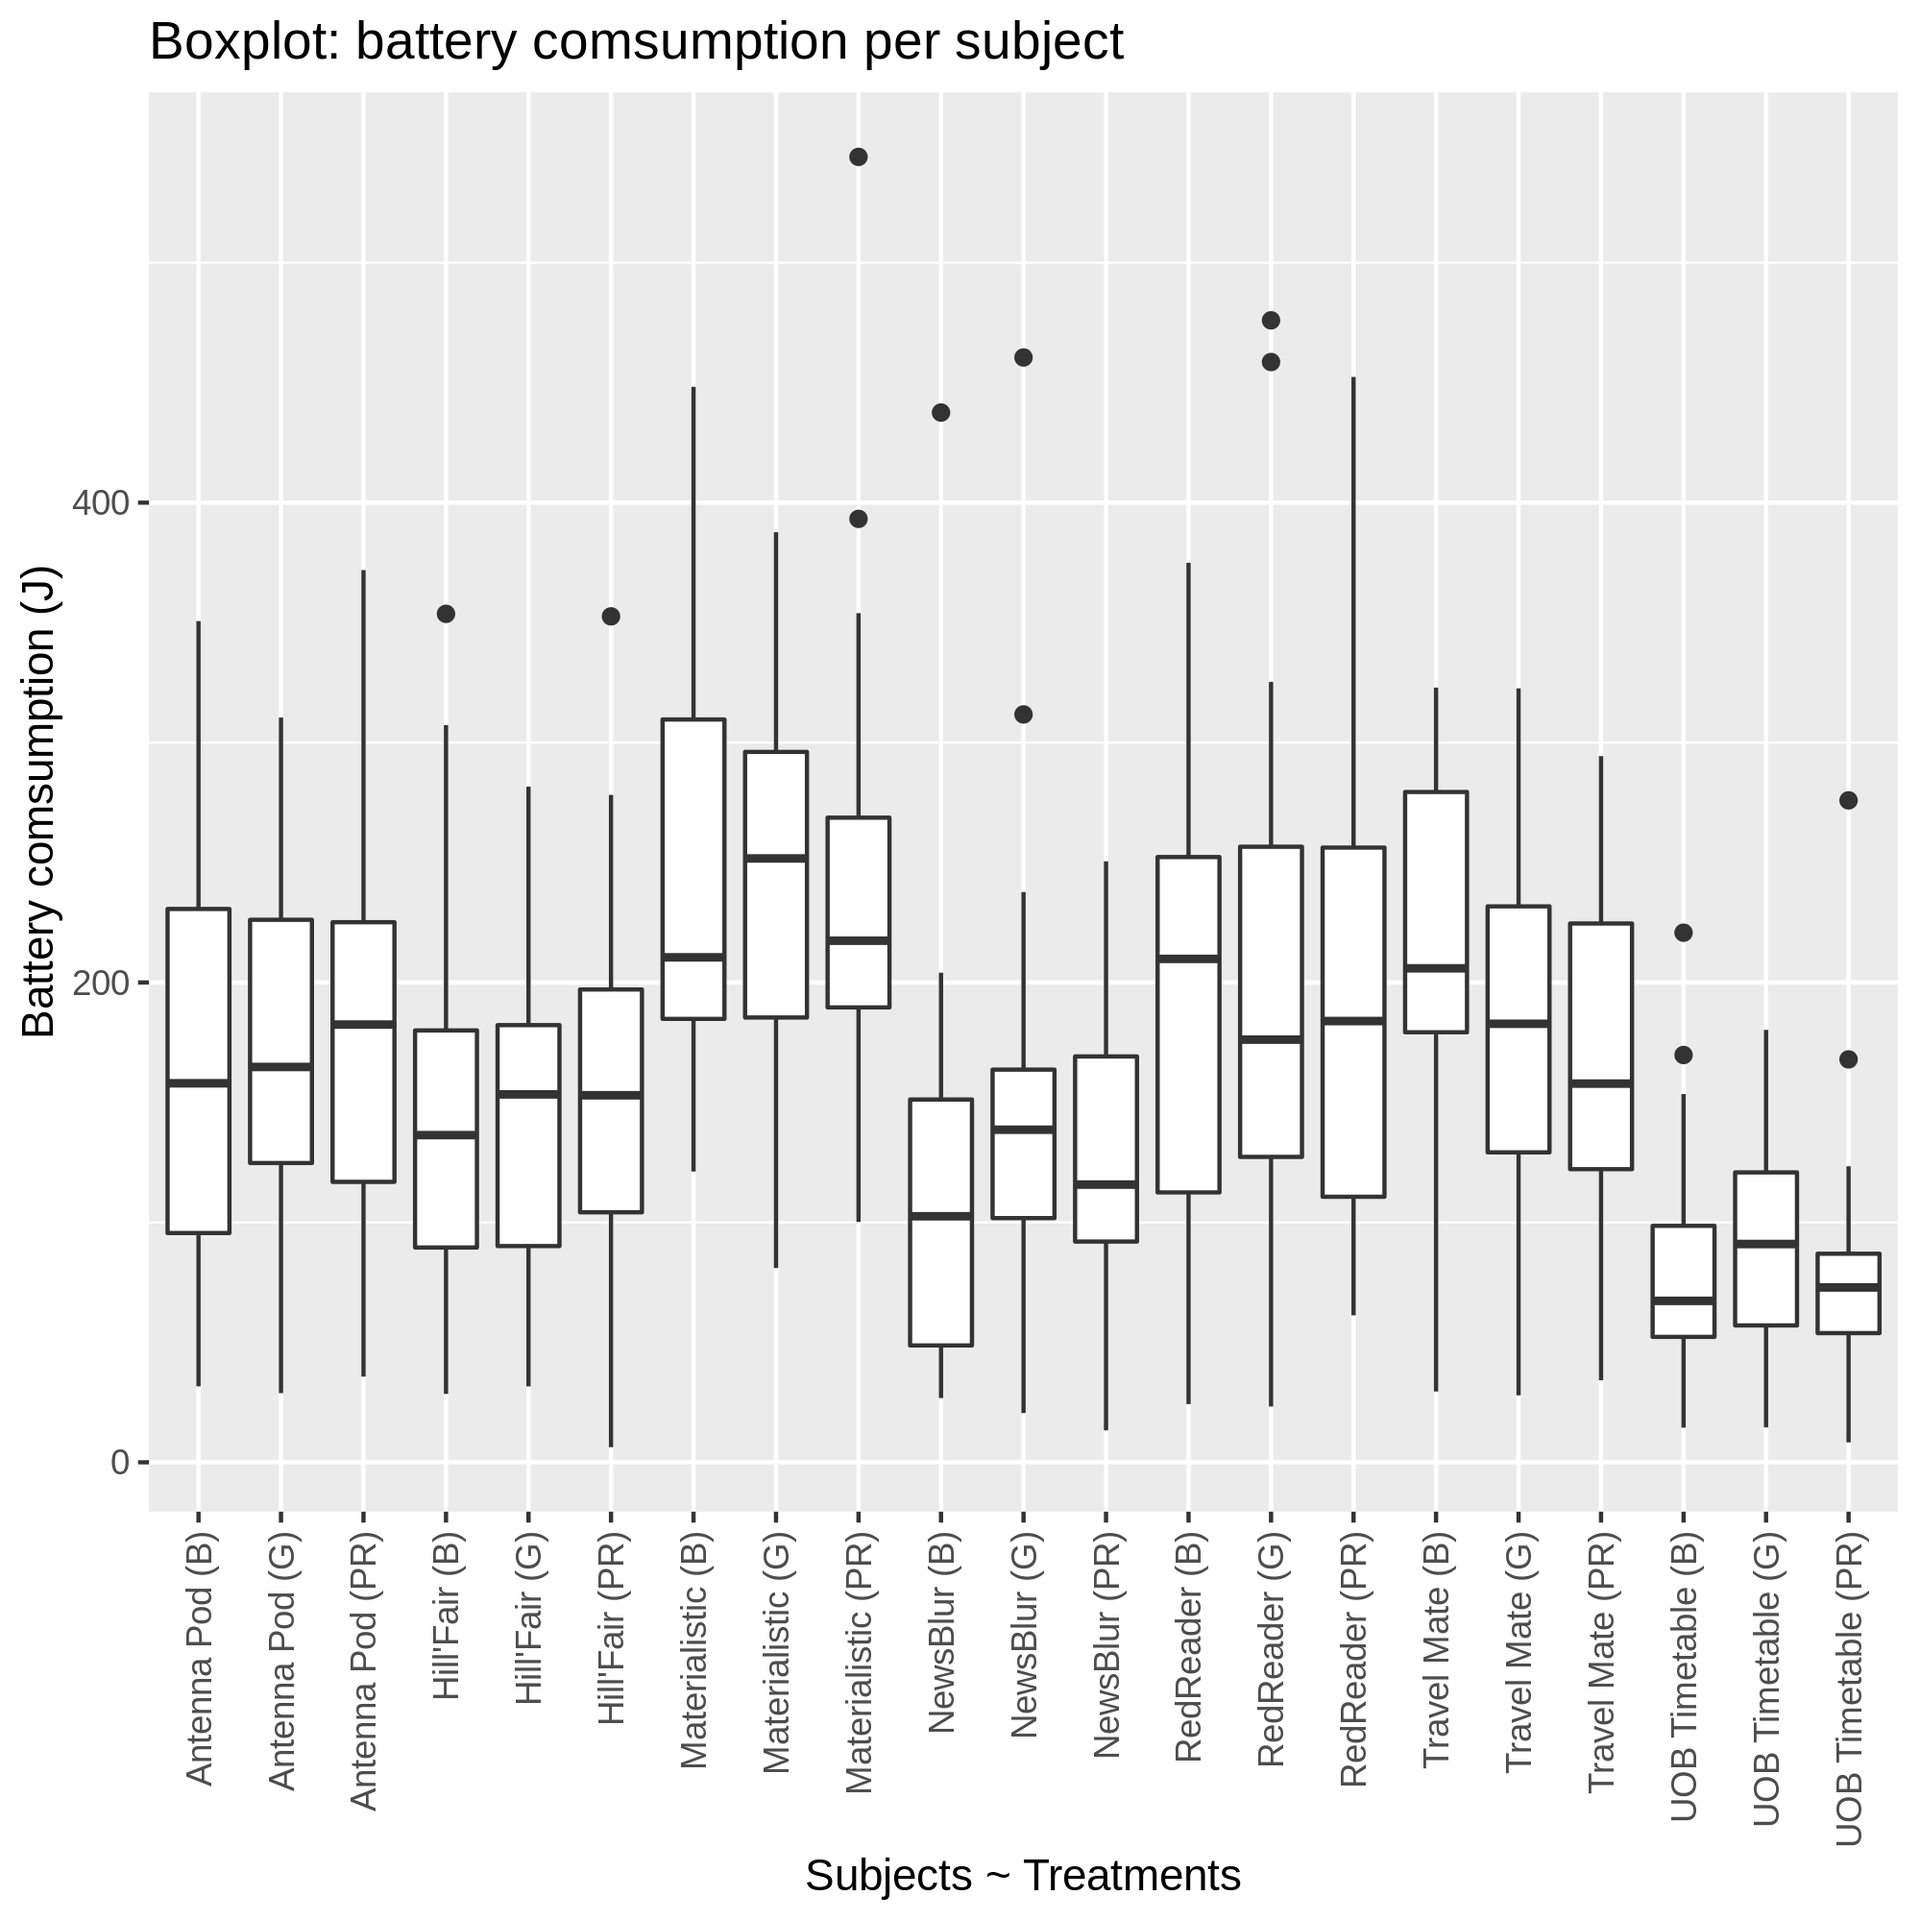
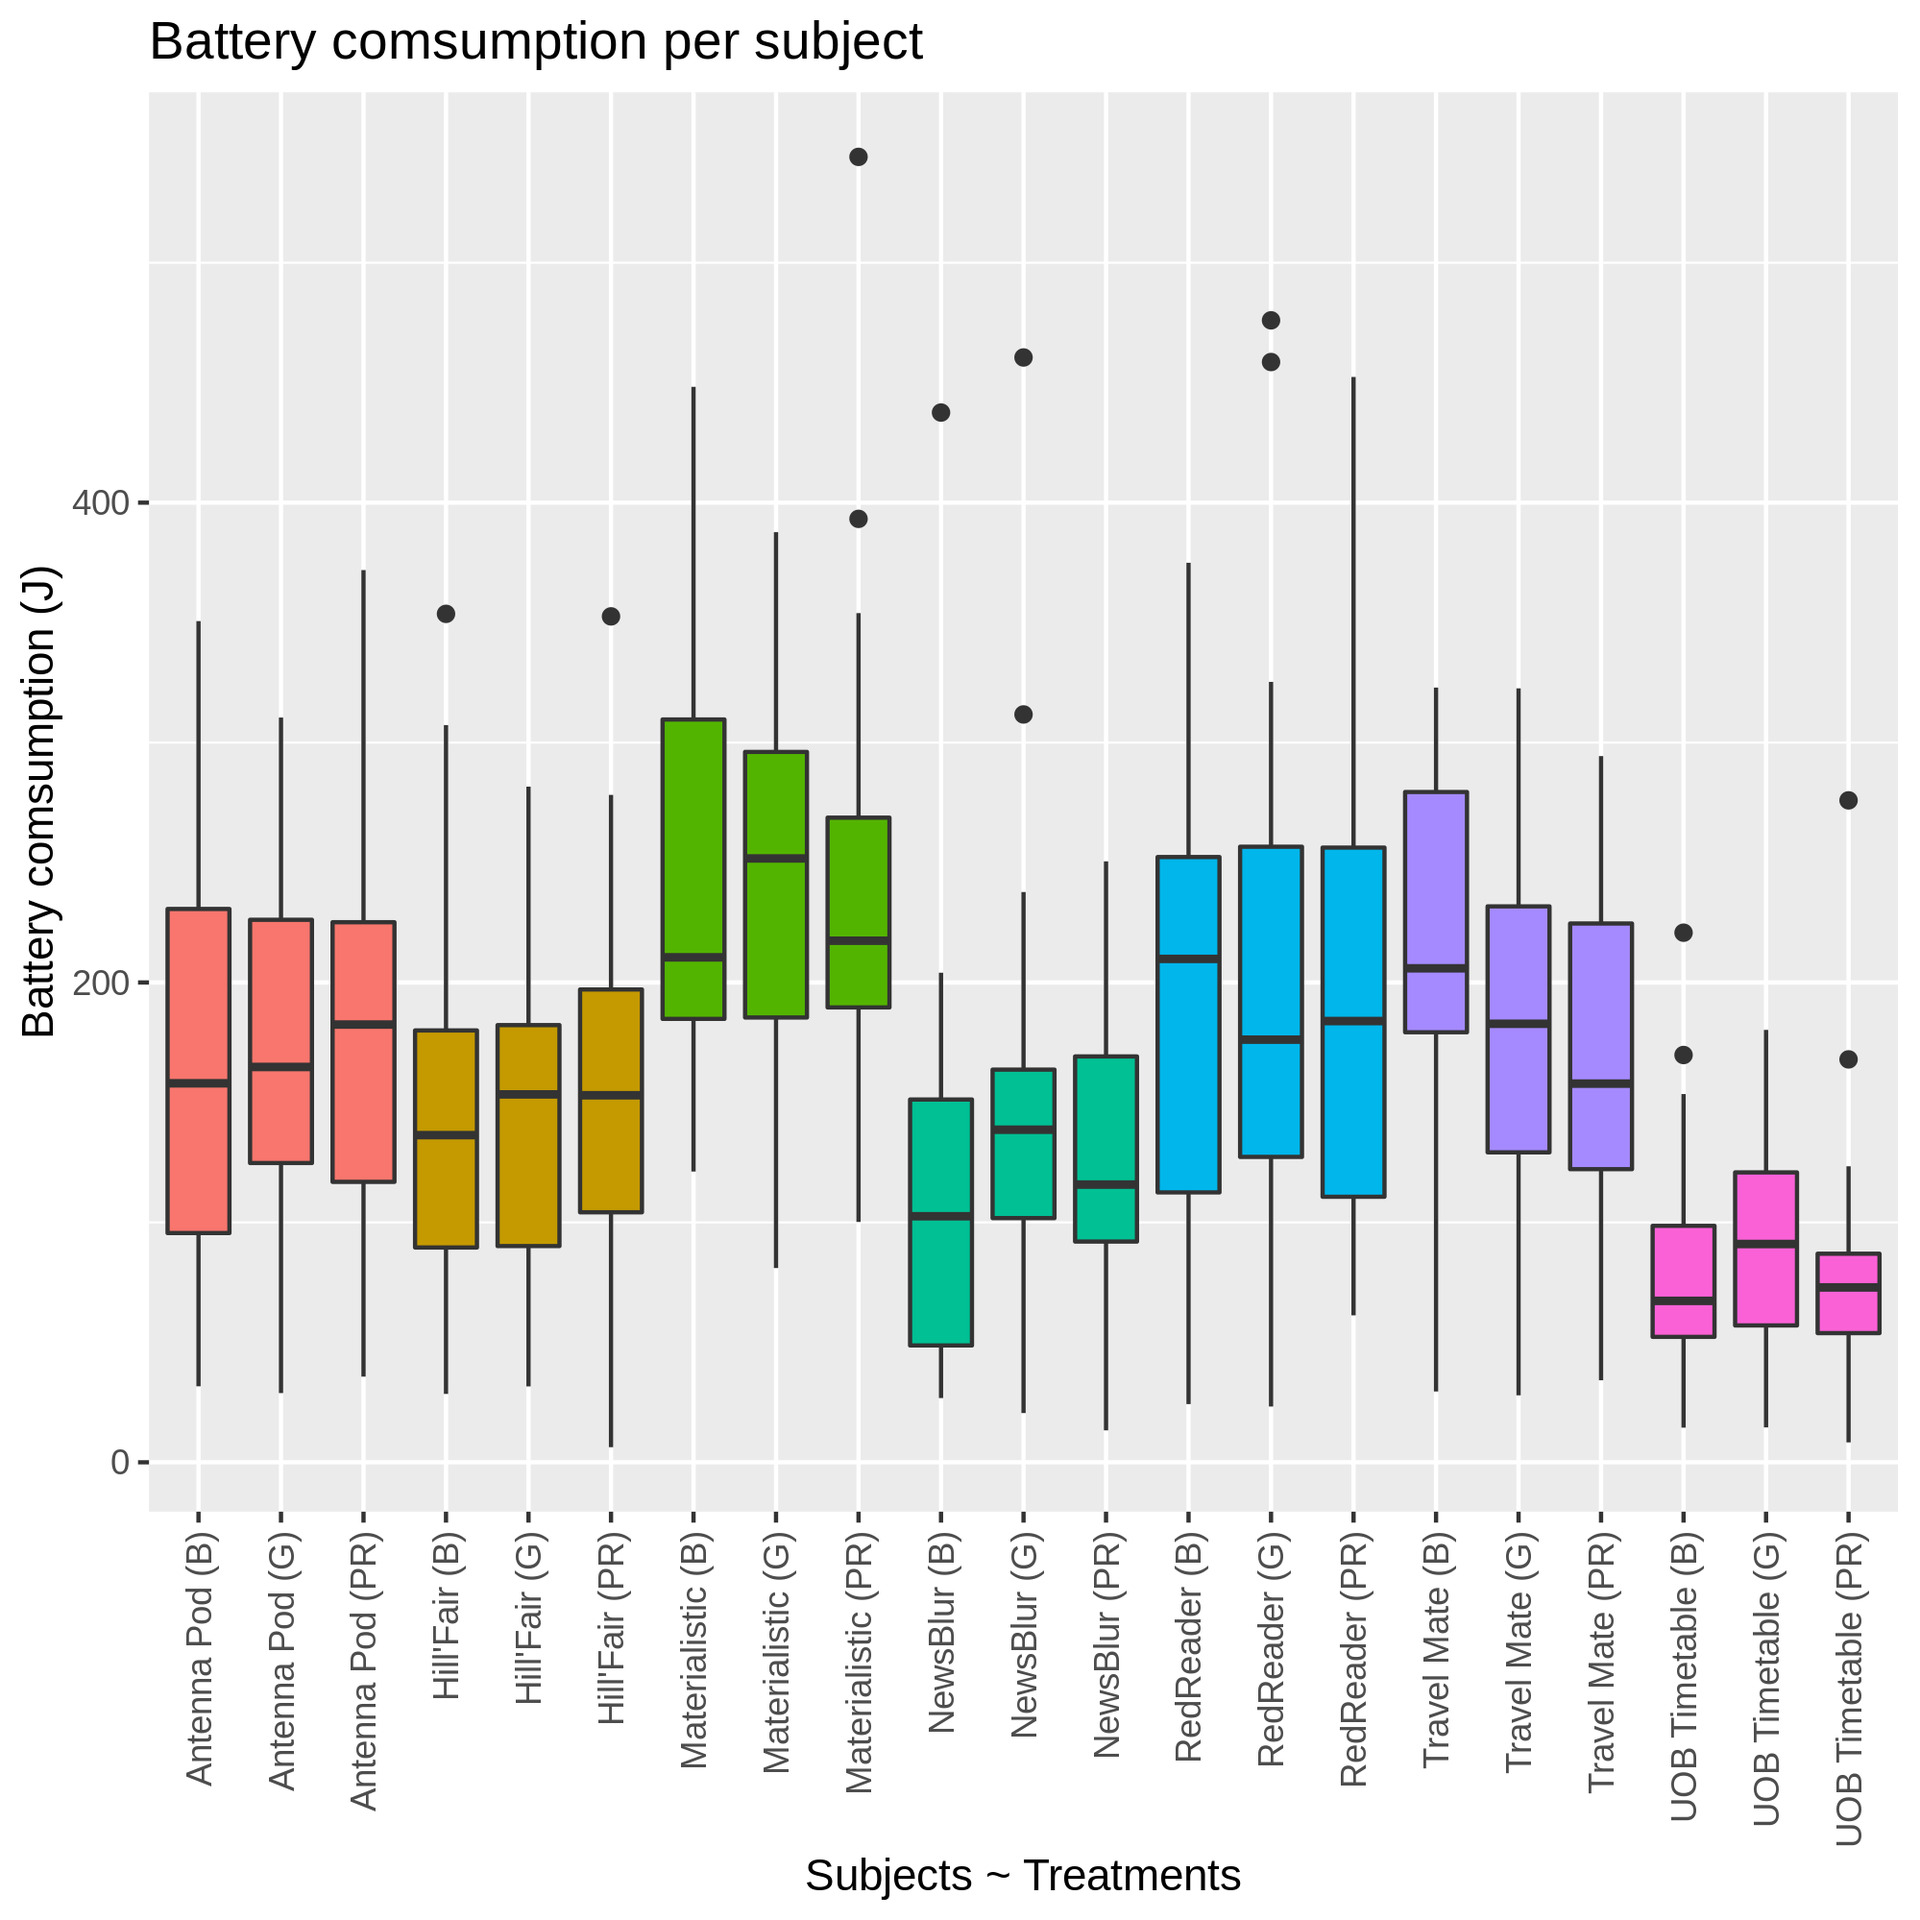
Add colour per subject to plots

diff --git a/data-analysis/output/rq1/summary-battery.tex b/data-analysis/output/rq1/summary-battery.tex
@@ -1,5 +1,5 @@
 % latex table generated in R 4.0.2 by xtable 1.8-4 package
-% Fri Aug  7 19:24:55 2020
+% Fri Aug  7 19:38:22 2020
 \begin{table}[ht]
 \centering
 \begin{tabular}{rrrrrrr}

diff --git a/data-analysis/output/rq1/summary-cpu.tex b/data-analysis/output/rq1/summary-cpu.tex
@@ -1,5 +1,5 @@
 % latex table generated in R 4.0.2 by xtable 1.8-4 package
-% Fri Aug  7 19:24:55 2020
+% Fri Aug  7 19:38:22 2020
 \begin{table}[ht]
 \centering
 \begin{tabular}{rrrrrrr}

diff --git a/data-analysis/output/rq1/summary-memory.tex b/data-analysis/output/rq1/summary-memory.tex
@@ -1,5 +1,5 @@
 % latex table generated in R 4.0.2 by xtable 1.8-4 package
-% Fri Aug  7 19:24:55 2020
+% Fri Aug  7 19:38:22 2020
 \begin{table}[ht]
 \centering
 \begin{tabular}{rrrrrrr}

diff --git a/data-analysis/output/rq1/summary-duration.tex b/data-analysis/output/rq1/summary-duration.tex
@@ -1,5 +1,5 @@
 % latex table generated in R 4.0.2 by xtable 1.8-4 package
-% Fri Aug  7 19:24:55 2020
+% Fri Aug  7 19:38:22 2020
 \begin{table}[ht]
 \centering
 \begin{tabular}{rrrr}
